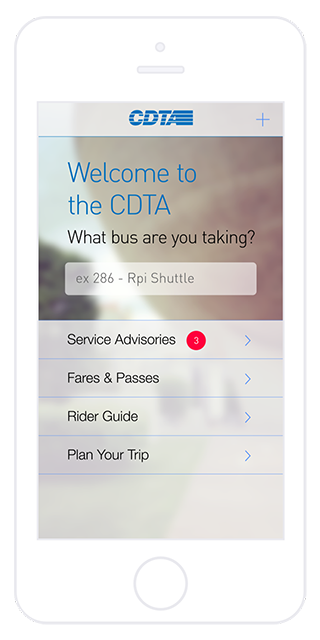
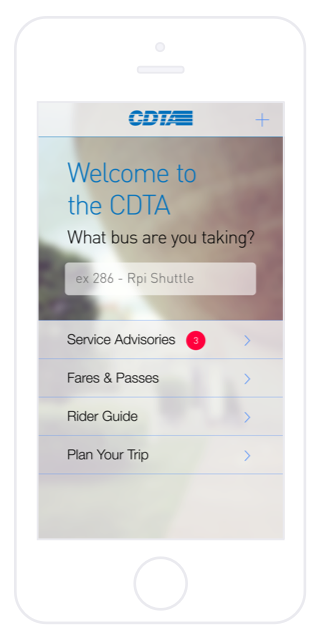
adds the ability to specify if an image needs a css background

diff --git a/src/_includes/project-image-container.html b/src/_includes/project-image-container.html
@@ -3,7 +3,7 @@
 {% assign classes = include.wrapperClasses | split: ', ' %}
 
 <div class="project-image-block {% if include.featured %}project-image-block--featured{% endif %} {% if include.side-caption %}project-image-block--side-caption{% endif %}">
-  <div class="images">
+  <div class="images {% if include.hasBackground %}images--has-background{% endif %}">
     {% for image in imageNames %}
     <div class="image-wrapper">
   		<img src="{{ image | relative_url }}">

diff --git a/src/assets/css/partials/_project-image.scss b/src/assets/css/partials/_project-image.scss
@@ -36,7 +36,6 @@
 }
 
 .images {
-  // background-color: $zt-blue-light;
   text-align: center;
 
   @include breakpoint(screen-sm) {
@@ -56,6 +55,14 @@
         margin-bottom: 0;
         margin-right: .25rem;
       }
+    }
+  }
+
+  &--has-background {
+    background-color: $zt-blue-light;
+
+    .image-wrapper {
+      border: 0;
     }
   }
 }

diff --git a/src/_layouts/project.html b/src/_layouts/project.html
@@ -13,6 +13,7 @@ layout: default
   {% 
     include project-image-container.html
     images = page.img
+    hasBackground = page.imgBg
   %}
 
   {{ content }}
